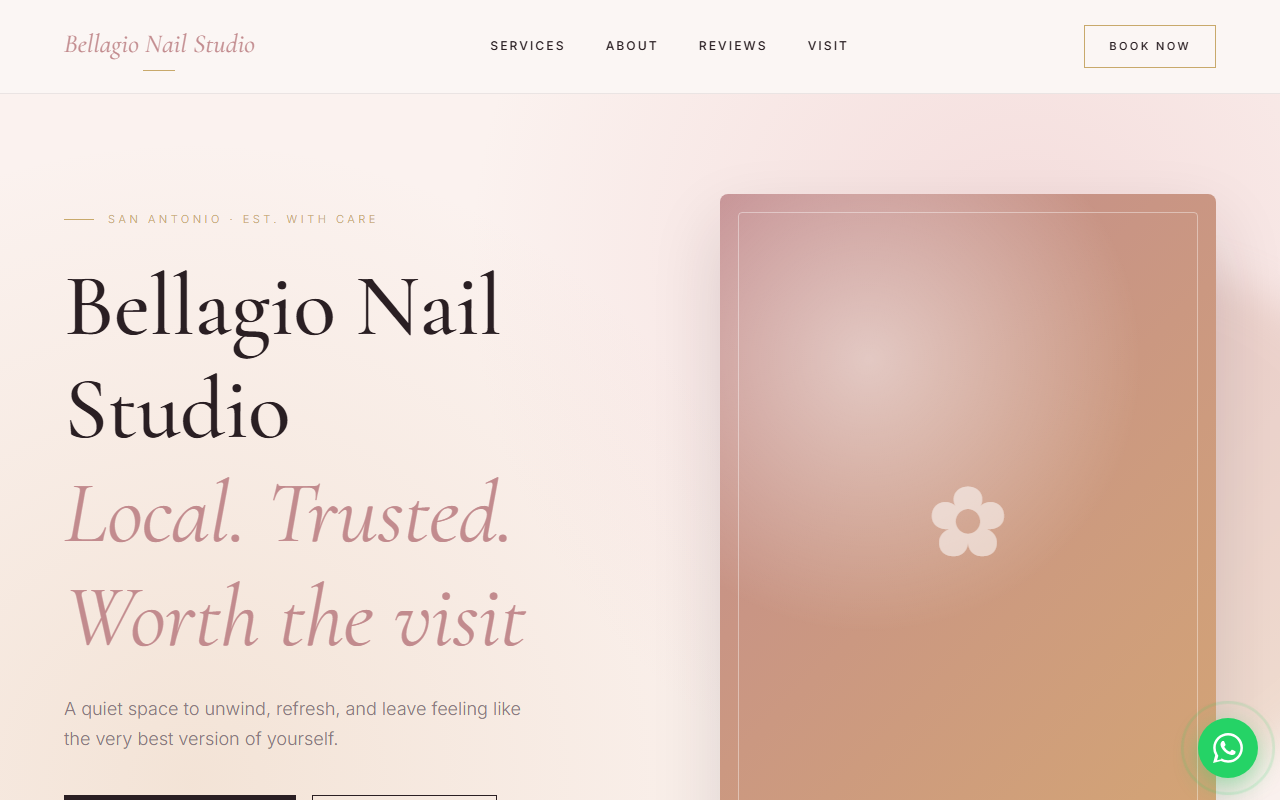
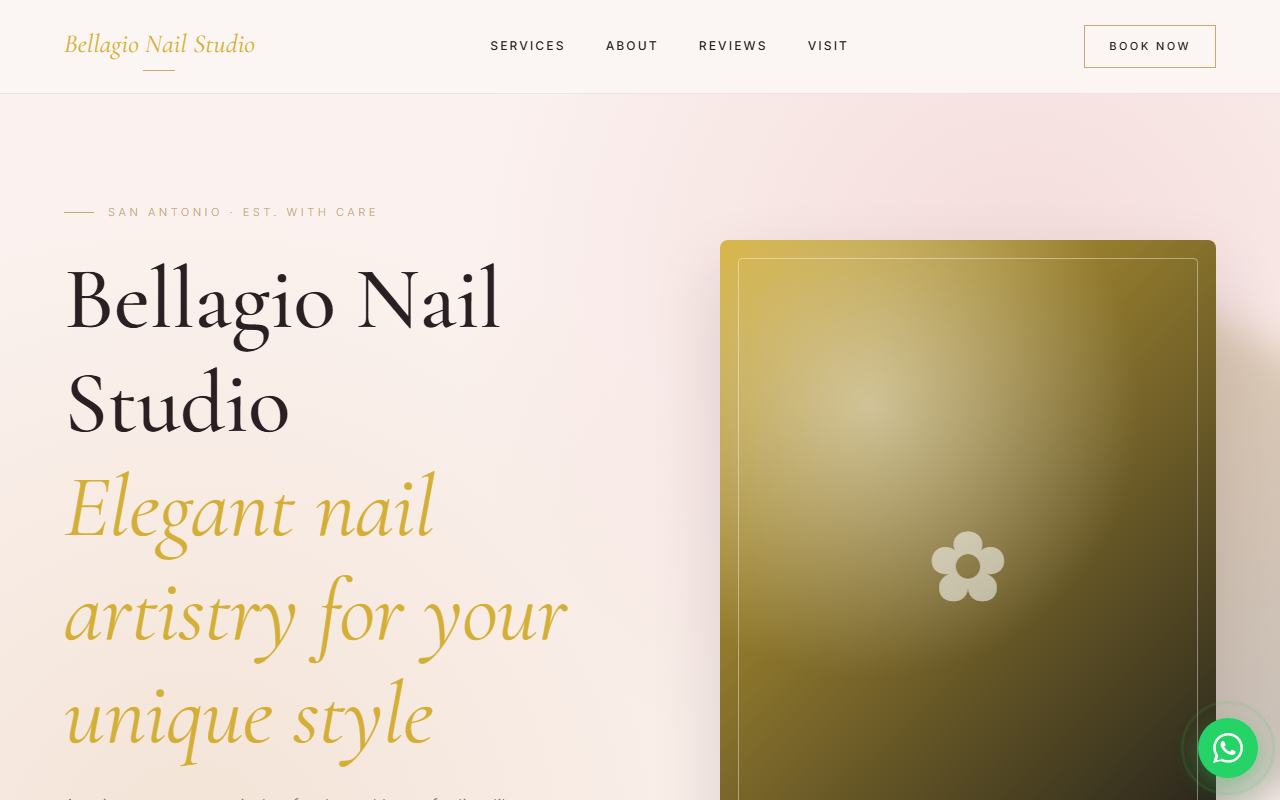
Add demo: bellagio-nail-studio

diff --git a/bellagio-nail-studio/index.html b/bellagio-nail-studio/index.html
@@ -4,14 +4,14 @@
 <meta charset="UTF-8" />
 <meta name="viewport" content="width=device-width, initial-scale=1.0" />
 <title>Bellagio Nail Studio — San Antonio</title>
-<meta name="description" content="Bellagio Nail Studio — locally owned and serving the community with care. Visit us, give us a call, or book today." />
+<meta name="description" content="Bellagio Nail Studio in San Antonio offers luxury manicures, gel polish application, and signature pedicures. Experience elegant nail artistry tailored to your unique style today." />
 <link rel="preconnect" href="https://fonts.googleapis.com">
 <link rel="preconnect" href="https://fonts.gstatic.com" crossorigin>
 <link href="https://fonts.googleapis.com/css2?family=Cormorant+Garamond:ital,wght@0,400;0,500;0,600;1,400&family=Inter:wght@300;400;500;600&display=swap" rel="stylesheet">
 <style>
   :root {
-    --primary: #C28B8E;
-    --secondary: #D4A574;
+    --primary: #D4AF37;
+    --secondary: #1A1A1A;
     --blush: #fbf2ef;
     --pearl: #faf6f3;
     --ink: #2a1f23;
@@ -329,7 +329,7 @@
   <div class="hero-inner">
     <div class="hero-text">
       <div class="eyebrow">San Antonio · Est. with care</div>
-      <h1>Bellagio Nail Studio<br/><em>Local. Trusted. Worth the visit</em></h1>
+      <h1>Bellagio Nail Studio<br/><em>Elegant nail artistry for your unique style</em></h1>
       <p class="lede">A quiet space to unwind, refresh, and leave feeling like the very best version of yourself.</p>
       <div class="hero-actions">
         <a href="tel:12104081512" class="btn btn-primary">Book Appointment</a>
@@ -351,19 +351,19 @@
       <div class="service-card">
         <span class="service-num">— No. 01 —</span>
         <div class="service-icon">✂</div>
-        <h3>Signature service</h3>
+        <h3>Luxury manicures</h3>
         <p>A consultation, a fresh perspective, and a finish that's unmistakably you.</p>
       </div>
       <div class="service-card">
         <span class="service-num">— No. 02 —</span>
         <div class="service-icon">❋</div>
-        <h3>What we're known for</h3>
+        <h3>Gel polish application</h3>
         <p>Premium products, gentle technique, and results that hold up beautifully.</p>
       </div>
       <div class="service-card">
         <span class="service-num">— No. 03 —</span>
         <div class="service-icon">✿</div>
-        <h3>By appointment</h3>
+        <h3>Signature pedicures</h3>
         <p>An hour just for you — to relax, refresh, and walk out glowing.</p>
       </div>
     </div>
